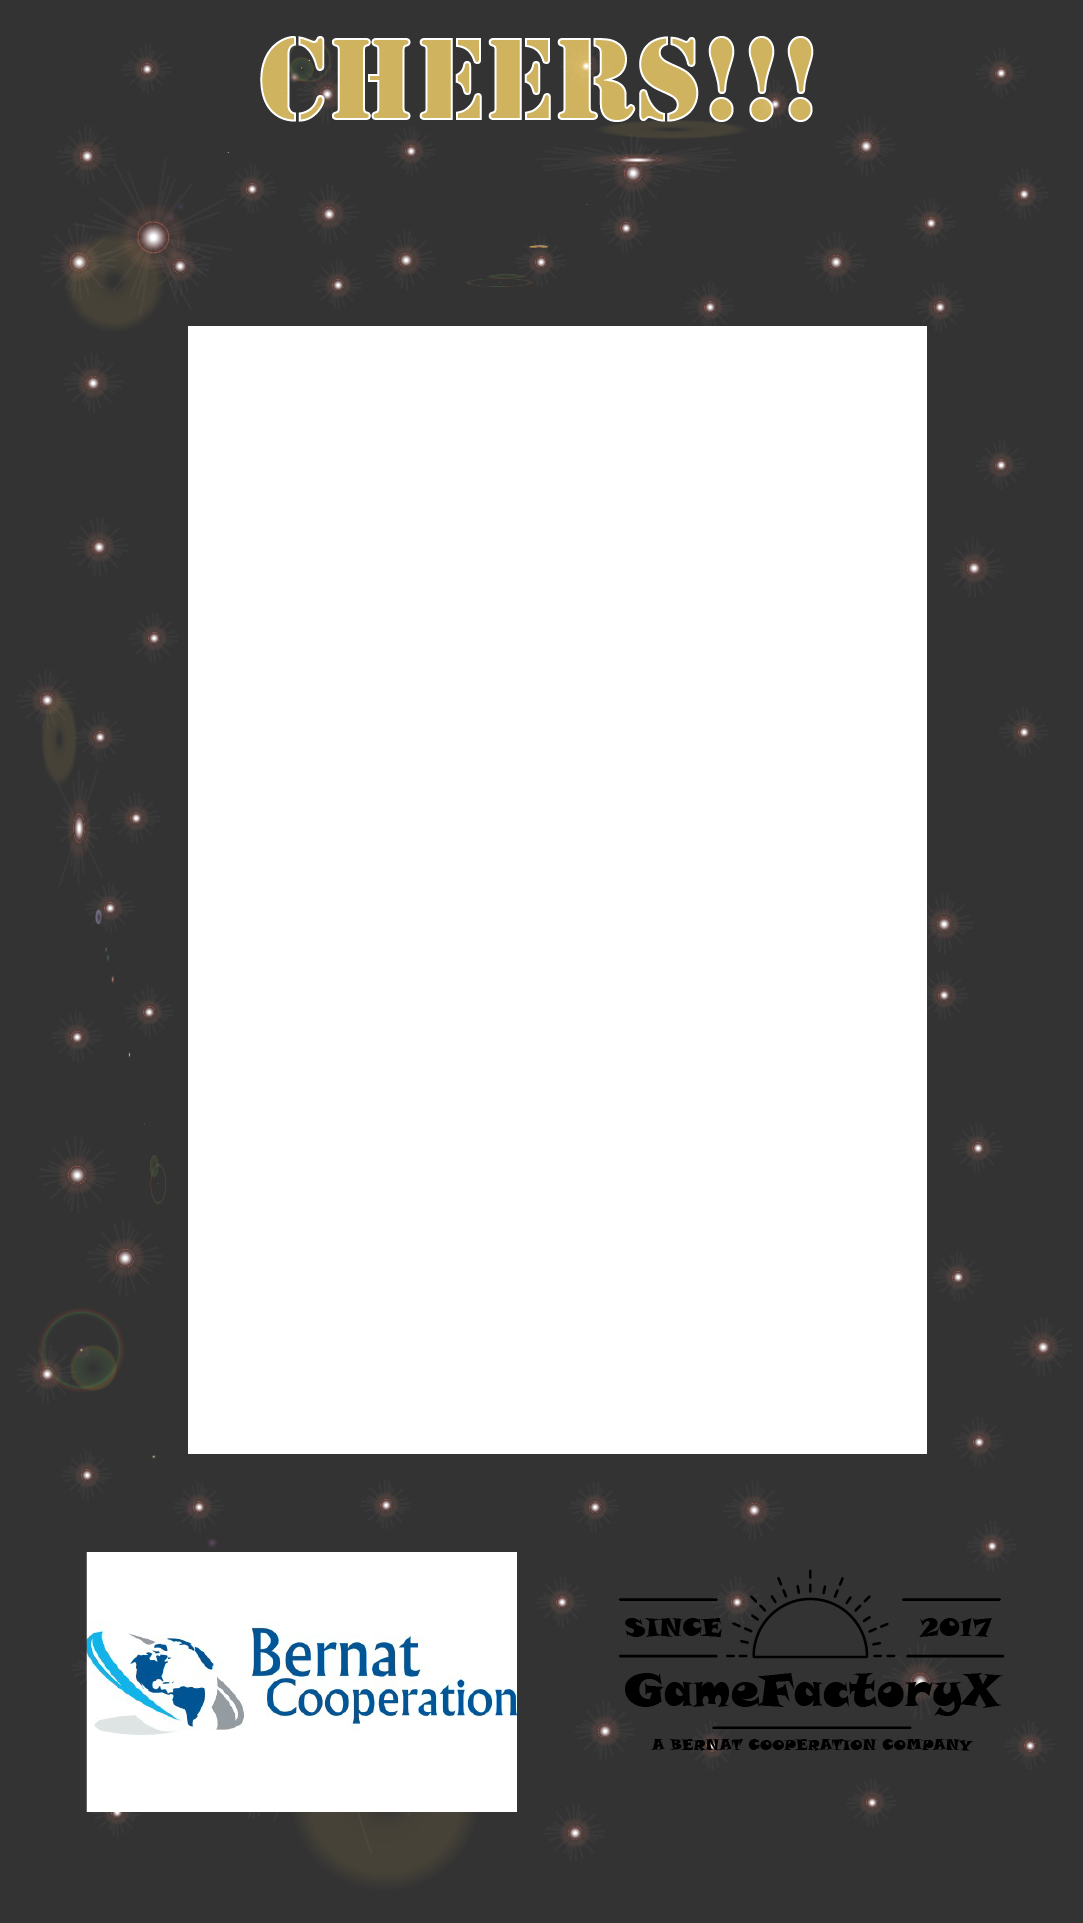
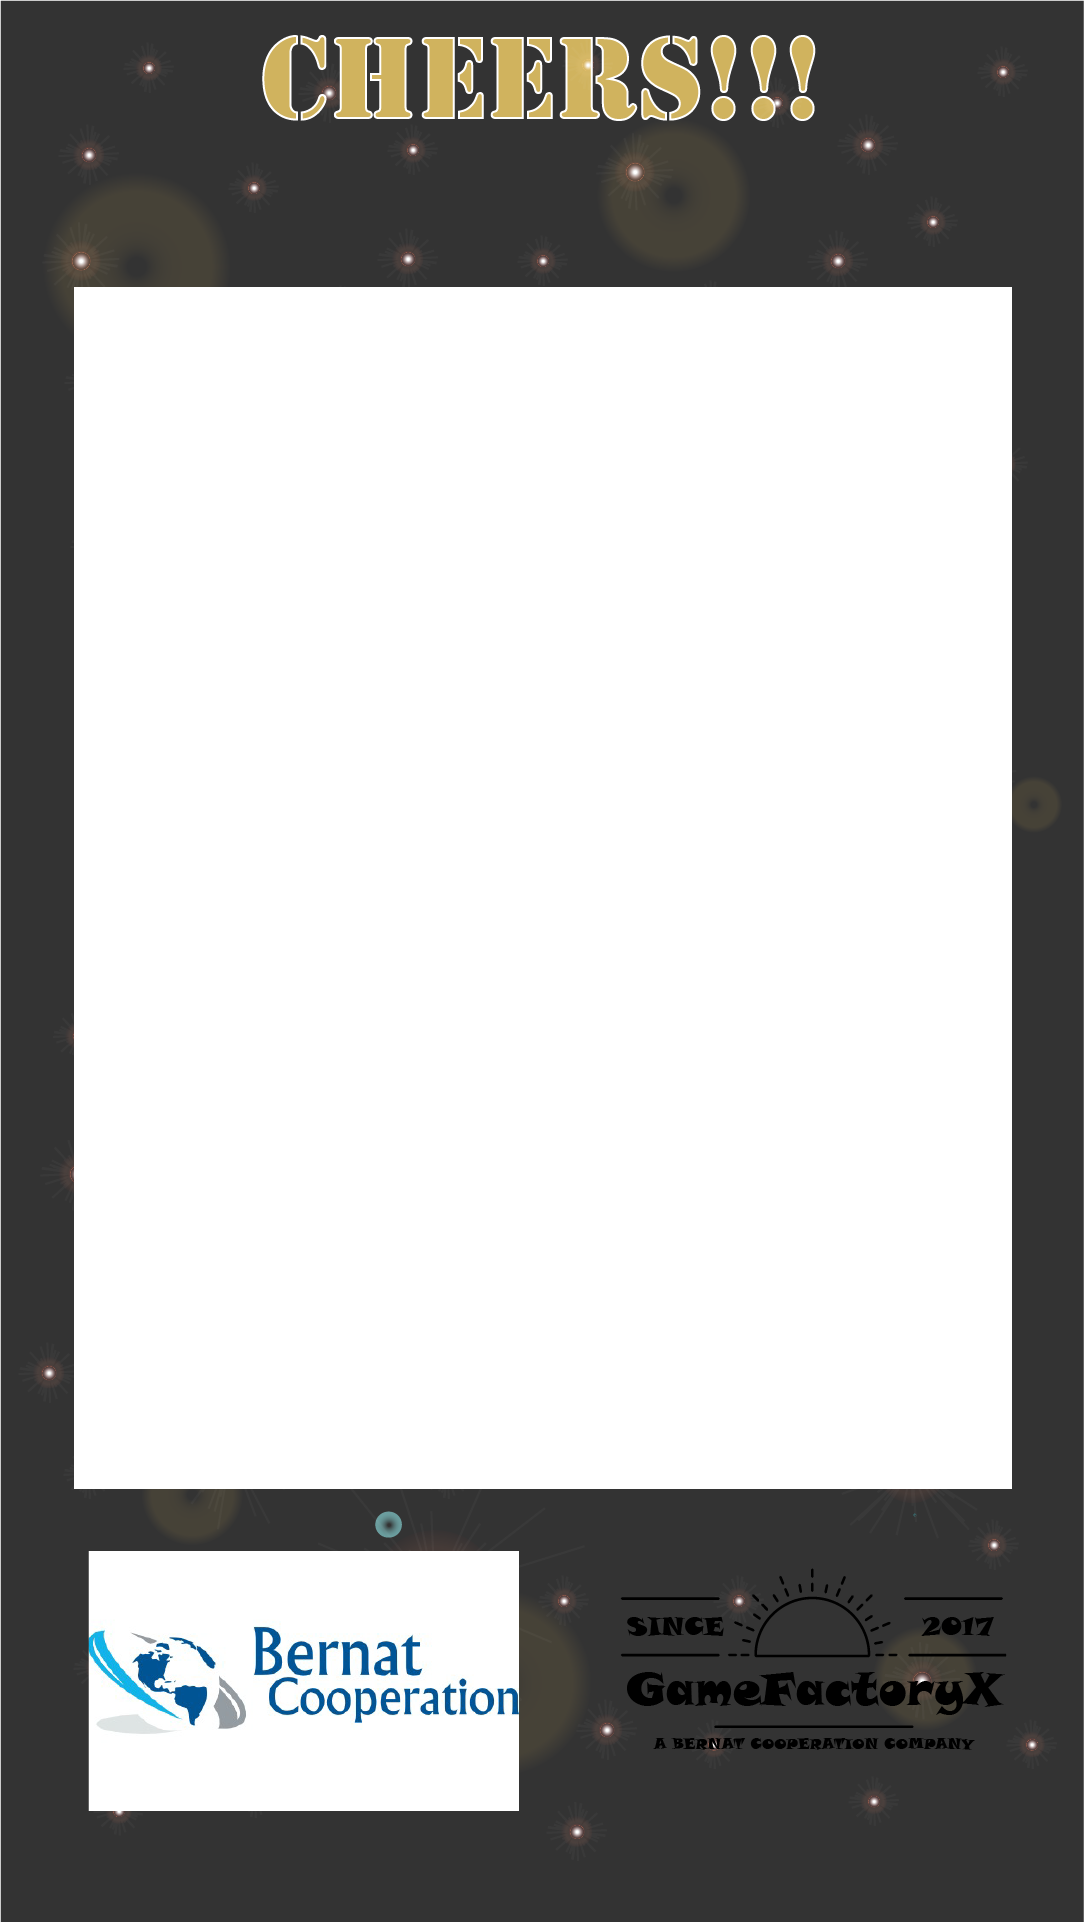
credit

diff --git a/core/src/com/gamefactoryx/cheers/view/CreditScreen.java b/core/src/com/gamefactoryx/cheers/view/CreditScreen.java
@@ -8,6 +8,7 @@ import com.badlogic.gdx.graphics.Texture;
 import com.badlogic.gdx.graphics.g2d.BitmapFont;
 import com.badlogic.gdx.graphics.g2d.Sprite;
 import com.badlogic.gdx.graphics.g2d.freetype.FreeTypeFontGenerator;
+import com.gamefactoryx.cheers.model.CreditModel;
 import com.gamefactoryx.cheers.model.KingsCupSpecialModel;
 import com.gamefactoryx.cheers.tool.Configuration;
 import com.gamefactoryx.cheers.tool.FontHelper;
@@ -32,6 +33,7 @@ public class CreditScreen extends AbstractScreen {
     private BitmapFont font, fontLabel;
     private String plainText;
     private List<String> text;
+
 
 
     private List<String> splitLine() {
@@ -73,13 +75,15 @@ public class CreditScreen extends AbstractScreen {
         FileHandle taskFile = Gdx.files.internal(com.gamefactoryx.cheers.tool.Configuration.getLanguage() + "/credits/credits.txt");
         plainText = taskFile.readString("UTF-8");
         initBackButton();
+        CreditModel.getInstance().setyOffset(Resolution.getGameWorldHeightPortrait() * 0.7f);
+        CreditModel.getInstance().startAnimation();
     }
 
 
     @Override
     protected void initSprites() {
-        setLandscapeSprite(new Sprite(new Texture("common/Landscapescreen.png")));
-        setPortraitSprite(new Sprite(new Texture("common/Portraitscreen.png")));
+        setLandscapeSprite(new Sprite(new Texture("common/credits.png")));
+        setPortraitSprite(new Sprite(new Texture("common/credits.png")));
         getLandscapeSprite().setSize(Resolution.getGameWorldWidthLandscape(), Resolution.getGameWorldHeightLandscape());
         getPortraitSprite().setSize(Resolution.getGameWorldWidthPortrait(), Resolution.getGameWorldHeightPortrait());
     }
@@ -98,14 +102,15 @@ public class CreditScreen extends AbstractScreen {
             FONT_SIZE = (int) (Resolution.getGameWorldHeightPortrait() * FONT_SIZE_ON_SCREEN);
             X = Resolution.getGameWorldWidthPortrait();
             Y = Resolution.getGameWorldHeightPortrait();
-            getTextBox().setSize(Resolution.getGameWorldWidthPortrait() * 0.92f, Resolution.getGameWorldHeightPortrait() * 0.82f);
+
         } else {
             FONT_SIZE = (int) (Resolution.getGameWorldWidthLandscape() * FONT_SIZE_ON_SCREEN);
             X = Resolution.getGameWorldWidthLandscape();
             Y = Resolution.getGameWorldHeightLandscape();
-            getTextBox().setSize(Resolution.getGameWorldWidthLandscape() * 0.92f, Resolution.getGameWorldHeightLandscape() * 0.82f);
 
         }
+
+        getTextBox().setSize(X, Y);
 
         parameter.size = FONT_SIZE;
         parameter.color = new Color(166.0f / 255.0f, 124.0f / 255.0f, 82f / 255.0f, 1f);
@@ -126,48 +131,46 @@ public class CreditScreen extends AbstractScreen {
         generator.dispose();
         text = splitLine();
 
+        CreditModel.getInstance().setMaxYOffset(-font.getCapHeight() * text.size() * 2.0f);
+
     }
 
     @Override
     protected void drawText() {
 
-        float MAX_LINES_VISIBLE = 0.85f;
         float SPACE_BETWEEN_TWO_LINES_WITHOUT_ENTER = 1.75f;
         float SPACE_BETWEEN_TWO_LINES_WITH_ENTER = 2.5f;
         float EMPTYCHAR_CHAR_WIDTH_RATIO = 1.7f;
-        if (Orientation.getOrientation() == Input.Orientation.Portrait)
-            getTextBox().setPosition(X * 0.05f, Y * 0.07f);
-        else
-            getTextBox().setPosition(X * 0.05f, Y * 0.07f);
 
-        getTextBox().draw(getSpriteBatch());
-        float y_offset = 0f;
-        if (getYScrollPos() < 0) setYScrollPos(0);
-        else if (getYScrollPos() > text.size() - 10) setYScrollPos(text.size() - 10);
-        for (int i = getYScrollPos(); i < text.size(); i++) {
+        float y_offset = CreditModel.getInstance().getyOffset();
+
+        for (int i = 0; i < text.size(); i++) {
 
             if (text.get(i).contains(":"))
                 fontLabel.draw(getSpriteBatch(), text.get(i),
                         (X - text.get(i).length() * font.getSpaceWidth() * EMPTYCHAR_CHAR_WIDTH_RATIO) * 0.5f,
-                        getTextBox().getHeight() - font.getCapHeight() * 1.3f - y_offset);
+                         Y * 0.8f - font.getCapHeight() * 1.3f - y_offset);
             else
                 font.draw(getSpriteBatch(), text.get(i),
                         (X - text.get(i).length() * font.getSpaceWidth() * EMPTYCHAR_CHAR_WIDTH_RATIO) * 0.53f,
-                        getTextBox().getHeight() - font.getCapHeight() * 1.3f - y_offset);
+                        Y * 0.8f - font.getCapHeight() * 1.3f - y_offset);
 
             if (text.get(i).indexOf('\n') > -1)
                 y_offset += font.getCapHeight() * SPACE_BETWEEN_TWO_LINES_WITH_ENTER;
             else
                 y_offset += font.getCapHeight() * SPACE_BETWEEN_TWO_LINES_WITHOUT_ENTER;
 
-            if (y_offset > getTextBox().getHeight() * MAX_LINES_VISIBLE) break;
         }
+
+        getTextBox().setPosition(0, 0);
+        getTextBox().draw(getSpriteBatch());
+
     }
 
 
     @Override
     protected void initTextBox() {
-        setTextBox(new Sprite(new Texture(Configuration.getLanguage() + "/kingsCupSpecial/KingsCupSpecial-TextBox.png")));
+        setTextBox(new Sprite(new Texture("common/credits2.png")));
 
     }
 
@@ -212,12 +215,13 @@ public class CreditScreen extends AbstractScreen {
     }
 
     @Override
-    public void dispose(){
-        if(font !=null)
+    public void dispose() {
+        if (font != null)
             font.dispose();
-        if(fontLabel !=null)
+        if (fontLabel != null)
             fontLabel.dispose();
         super.dispose();
     }
+
 
 }

diff --git a/core/src/com/gamefactoryx/cheers/tool/kongosdrink/PlayerToTeamsTransformator.java b/core/src/com/gamefactoryx/cheers/tool/kongosdrink/PlayerToTeamsTransformator.java
@@ -82,7 +82,7 @@ public class PlayerToTeamsTransformator {
         } else if (splitted[0].size() < splitted[1].size()) {
             for (int i = 0; i < splitted[0].size(); i++) {
                 Player newPlayer = new Player(new Subject(FunnyNameGenerator.getTeamFunnyName(i), Subject.Sex.DONT_CARE,
-                        Subject.Type.TEAM, splitted[0].get(0).getAvatar()));
+                        Subject.Type.TEAM, splitted[0].get(i).getAvatar()));
                 newPlayer.addSubject(splitted[0].get(i).getSubjects().get(0));
                 newPlayer.addSubject(splitted[1].get(i).getSubjects().get(0));
                 newPlayer.setEnable(true);
@@ -90,7 +90,7 @@ public class PlayerToTeamsTransformator {
             }
 
             Player newPlayer = new Player(new Subject(FunnyNameGenerator.getTeamFunnyName(splitted[1].size()), Subject.Sex.DONT_CARE,
-                    Subject.Type.TEAM, splitted[0].get(0).getAvatar()));
+                    Subject.Type.TEAM, splitted[1].get(splitted[1].size() - 1).getAvatar()));
             newPlayer.addSubject(splitted[1].get(splitted[1].size() - 1).getSubjects().get(0));
             newPlayer.setEnable(true);
             rs.add(newPlayer);
@@ -99,14 +99,14 @@ public class PlayerToTeamsTransformator {
             for (int i = 0; i < splitted[1].size(); i++) {
                 Subject s = splitted[0].get(i).getSubjects().get(0);
                 Player newPlayer = new Player(new Subject(FunnyNameGenerator.getTeamFunnyName(i + 1), Subject.Sex.DONT_CARE,
-                        Subject.Type.TEAM, splitted[0].get(0).getAvatar()));
+                        Subject.Type.TEAM, splitted[0].get(i).getAvatar()));
                 newPlayer.addSubject(splitted[0].get(i).getSubjects().get(0));
                 newPlayer.addSubject(splitted[1].get(i).getSubjects().get(0));
                 newPlayer.setEnable(true);
                 rs.add(newPlayer);
             }
             Player newPlayer = new Player(new Subject(FunnyNameGenerator.getTeamFunnyName(splitted[0].size()), Subject.Sex.DONT_CARE,
-                    Subject.Type.TEAM, splitted[1].get(0).getAvatar()));
+                    Subject.Type.TEAM, splitted[0].get(splitted[0].size() - 1).getAvatar()));
             newPlayer.addSubject(splitted[0].get(splitted[0].size() - 1).getSubjects().get(0));
             newPlayer.setEnable(true);
             rs.add(newPlayer);

diff --git a/core/src/com/gamefactoryx/cheers/controller/CreditController.java b/core/src/com/gamefactoryx/cheers/controller/CreditController.java
@@ -2,6 +2,7 @@ package com.gamefactoryx.cheers.controller;
 
 import com.badlogic.gdx.Input;
 import com.gamefactoryx.cheers.controller.AbstractController;
+import com.gamefactoryx.cheers.model.CreditModel;
 import com.gamefactoryx.cheers.tool.Orientation;
 import com.gamefactoryx.cheers.tool.Resolution;
 import com.gamefactoryx.cheers.view.AbstractScreen;
@@ -17,24 +18,7 @@ final class CreditController extends AbstractController {
 
     CreditController(final AbstractScreen screen) {
         super(screen);
-        setScreenLock(10);
-
-        /*new Thread(new Runnable() {
-            @Override
-            public void run() {
-                int acc = 0;
-                while (acc < 5) {
-                    long time = System.currentTimeMillis();
-                    while (System.currentTimeMillis() < time + 1000L) {
-                    }
-                    ++acc;
-                    getScreen().setYScrollPos(getScreen().getYScrollPos() + 1);
-
-                }
-            }
-
-        }).start();*/
-
+        setScreenLock(1);
     }
 
     @Override
@@ -46,6 +30,7 @@ final class CreditController extends AbstractController {
 
     @Override
     public boolean touchUp(int screenX, int screenY, int pointer, int button) {
+
         super.touchUp(screenX, screenY, pointer, button);
         return true;
     }
@@ -53,7 +38,7 @@ final class CreditController extends AbstractController {
     @Override
     public boolean touchDragged(int screenX, int screenY, int pointer) {
 
-        int SCROLLING_SLOW_DOWN = 30;
+       /* int SCROLLING_SLOW_DOWN = 30;
         if (screenX >= getScreen().getTextBox().getX() &&
                 screenX <= getScreen().getTextBox().getX() + getScreen().getTextBox().getWidth() &&
                 Resolution.getGameWorldHeightPortrait() - screenY >= getScreen().getTextBox().getY() &&
@@ -74,10 +59,9 @@ final class CreditController extends AbstractController {
                 lastYPointerPos = screenY;
             }
 
-        }
+        }*/
 
         return true;
     }
-
 
 }

diff --git a/core/src/com/gamefactoryx/cheers/model/CreditModel.java b/core/src/com/gamefactoryx/cheers/model/CreditModel.java
@@ -1,0 +1,48 @@
+package com.gamefactoryx.cheers.model;
+
+public class CreditModel {
+    private static CreditModel instance;
+    private CreditModel(){}
+    private float yOffset;
+    private float maxYOffset;
+
+    public static CreditModel getInstance() {
+        if (instance == null) {
+            instance = new CreditModel();
+        }
+        return instance;
+    }
+
+    public float getyOffset() {
+        return yOffset;
+    }
+
+    public void setyOffset(float yOffset) {
+        this.yOffset = yOffset;
+    }
+
+    public float getMaxYOffset() {
+        return maxYOffset;
+    }
+
+    public void setMaxYOffset(float maxYOffset) {
+        this.maxYOffset = maxYOffset;
+    }
+
+    public void startAnimation(){
+        new Thread(new Runnable() {
+            @Override
+            public void run() {
+                while (CreditModel.getInstance().getyOffset() > CreditModel.getInstance().getMaxYOffset()) {
+                    long time = System.currentTimeMillis();
+                    while (System.currentTimeMillis() < time + 5L) {
+                    }
+                    CreditModel.getInstance().setyOffset(CreditModel.getInstance().getyOffset() - 1);
+
+                }
+            }
+
+        }).start();
+    }
+}
+

diff --git a/core/src/com/gamefactoryx/cheers/controller/MainStageController.java b/core/src/com/gamefactoryx/cheers/controller/MainStageController.java
@@ -78,7 +78,7 @@ final class MainStageController extends AbstractController {
                         StageManager.getInstance().showStage(StageEnum.MAIN_STAGE);
                         break;
                     case 5:
-                        CheersGdxGame.getFacebookLinkHandler().openFacebookPage("fb://profile/", "https://www.facebook.com/");
+                        CheersGdxGame.getFacebookLinkHandler().openFacebookPage("fb://page/312135055904603", "https://www.facebook.com/BernatCooperation");
                         break;
 
                     default:
